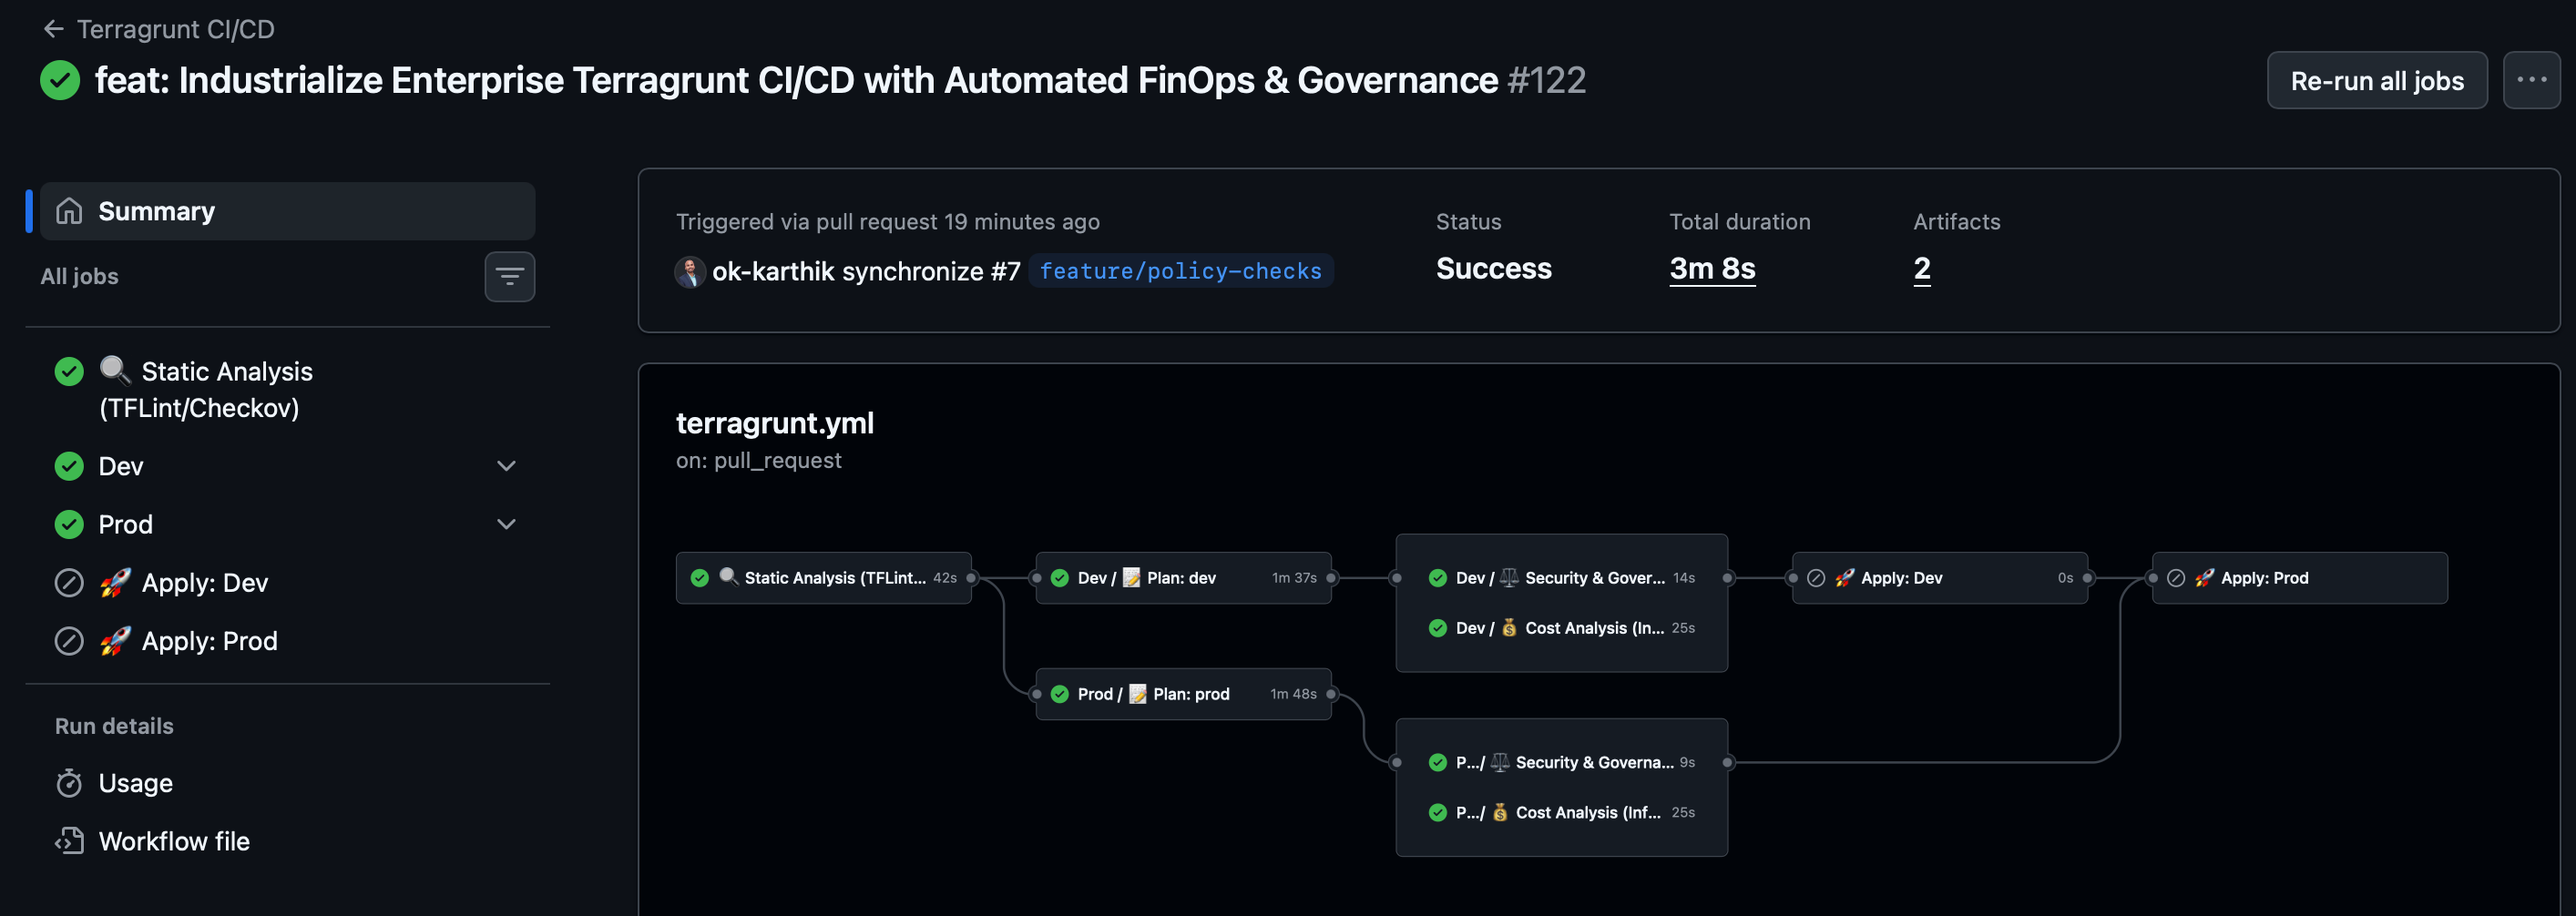
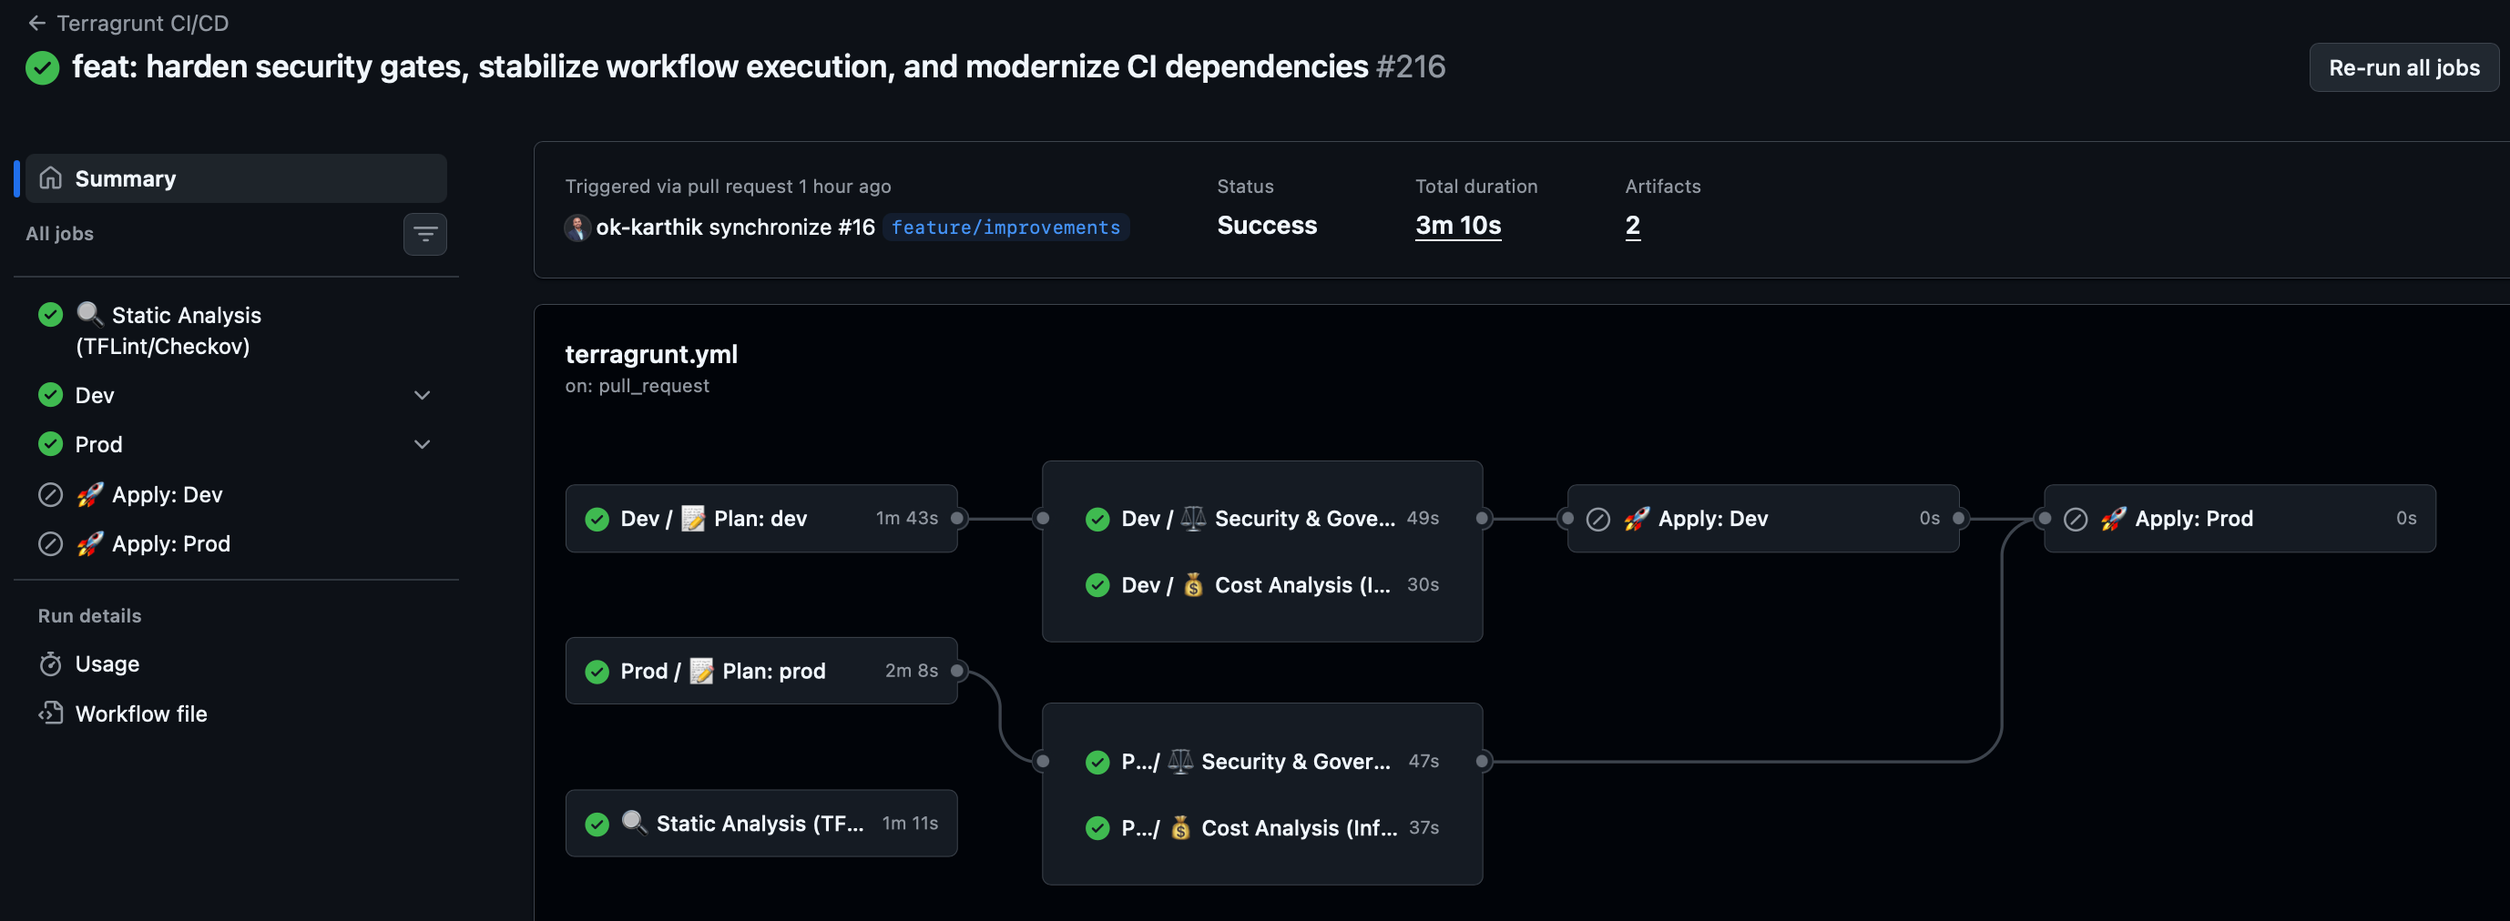
docs: update contributing steps and refresh CI/CD workflow diagrams in README

diff --git a/README.md b/README.md
@@ -67,10 +67,10 @@ graph LR
 
 ## 🤝 Contributing
 
-1⃣ **Fork the repo**
-2⃣ **Create a feature branch** (`feat/your-name`)
-3⃣ **Validate locally**: `tflint --recursive && checkov -d .`
-4⃣ **Submit a PR**: The 5-stage pipeline runs automatically.
+- 1⃣ **Fork the repo**
+- 2⃣ **Create a feature branch** (`feat/your-name`)
+- 3⃣ **Validate locally**: `tflint --recursive && checkov -d .`
+- 4⃣ **Submit a PR**: The automated pipeline runs automatically.
 
 ---
 
